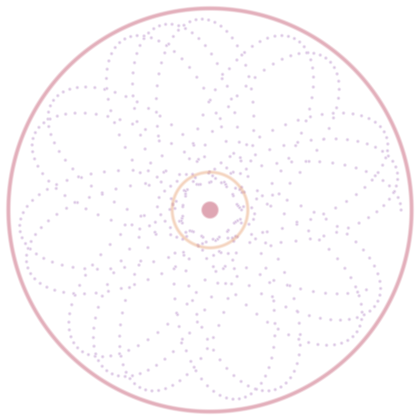
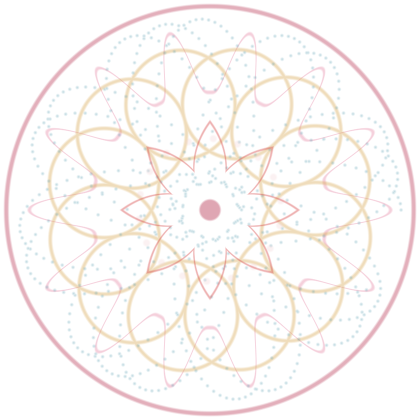
Give the Wine motif the colour it was missing
The control-center and media panels were showing a motif that read as a
flat mauve smudge. The wiring was never wrong -- mandala-gen check passes
and all 22 PNGs are byte-unique -- the drawing was.

Two causes. The design used three palette roles, two of them
near-neighbours on the colour wheel, so more opacity on one hue could
never have helped. And the Role enum only exposed 11 of the 15 accent
tokens every block declares: --red, --sapphire, --sky and --flamingo
were unreachable, and --red is the most saturated thing in the palette at
0.71 chroma against mauve's 0.38.

So Wine becomes "kalamkari bloom": six distinct roles over seven layers,
keeping the spirograph it had, now in sapphire. Measured on the art,
mean chroma 0.422 -> 0.528 and hue buckets 4 -> 8.

The alphas stay in the 0.40-0.50 band, and that is the point. The
control-center panel fills with --acrylic at 1% alpha, so the PNG's own
alpha is the only thing between the motif and the body text. Running the
layers to 0.55-0.60 did make it more vivid and pushed the top 1% of the
art to luminance 0.48, dropping body text to 1.6:1. Vibrancy is bought
here with hue variety, which costs no contrast: 99% of the motif stays
below luminance 0.23, which is where #F1DFE3 still clears 3:1.

mandala-gen had no unit tests at all, so nothing would have caught the
flat-hue design or an over-opaque one. Four now do, driven off the real
stylesheet so a 23rd theme cannot slip through: every design needs at
[…]

diff --git a/yasb/tools/theme/mandala-gen/src/main.rs b/yasb/tools/theme/mandala-gen/src/main.rs
@@ -41,11 +41,25 @@ const SS: usize = 2;
 /// which is exactly the regression this tool exists to prevent.
 const MIN_PATTERN_DISTANCE: u32 = 10;
 
+/// Ceiling on any single layer's alpha.
+///
+/// The control-center, media and pomodoro panels all paint this art *under*
+/// their text, and `.control-center-menu` sets `background-color: var(--acrylic)`
+/// — which the Rangalipi blocks declare at 1% alpha. So there is no panel fill
+/// to hide behind: the PNG's alpha is the only thing keeping the motif from
+/// sitting at full strength under the labels.
+///
+/// The floor is not arbitrary. Measured on the art, this keeps 99% of the
+/// motif's pixels below luminance 0.23, which is where `#F1DFE3` body text on
+/// the darkest theme still clears 3:1. Running the layers to 0.55-0.60 pushed
+/// the top 1% to 0.48 and body text to 1.6:1.
+const MAX_WATERMARK_ALPHA: f64 = 0.50;
+
 // ---------------------------------------------------------------------------
 // Palette roles: which styles.css token tints a layer
 // ---------------------------------------------------------------------------
 
-#[derive(Clone, Copy, PartialEq, Eq, Hash)]
+#[derive(Clone, Copy, PartialEq, Eq, Hash, Debug)]
 enum Role {
     Frame,
     Mauve,
@@ -58,6 +72,10 @@ enum Role {
     Pink,
     Maroon,
     Rosewater,
+    Red,
+    Sapphire,
+    Sky,
+    Flamingo,
 }
 
 impl Role {
@@ -74,10 +92,21 @@ impl Role {
             Role::Pink => "pink",
             Role::Maroon => "maroon",
             Role::Rosewater => "rosewater",
+            Role::Red => "red",
+            Role::Sapphire => "sapphire",
+            Role::Sky => "sky",
+            Role::Flamingo => "flamingo",
         }
     }
 
-    fn all() -> [Role; 11] {
+    /// Every accent token the 22 blocks all declare.
+    ///
+    /// The four added last (`red`, `sapphire`, `sky`, `flamingo`) are the
+    /// most saturated tokens in the palette — `--red` is 0.71 chroma against
+    /// mauve's 0.38 — and leaving them out of the vocabulary is what kept
+    /// every design looking washed out. A design can only be as colourful as
+    /// the colours it is allowed to reach for.
+    fn all() -> [Role; 15] {
         [
             Role::Frame,
             Role::Mauve,
@@ -90,6 +119,10 @@ impl Role {
             Role::Pink,
             Role::Maroon,
             Role::Rosewater,
+            Role::Red,
+            Role::Sapphire,
+            Role::Sky,
+            Role::Flamingo,
         ]
     }
 }
@@ -592,12 +625,38 @@ fn design_for(stem: &str) -> Result<(&'static str, Vec<Layer>), String> {
             ],
         ),
         "wine" => (
-            "spirograph weave",
+            // Six distinct roles across seven layers. The previous
+            // "spirograph weave" used three, two of which were near-neighbours
+            // on the wheel, which is why this motif read as a flat mauve
+            // smudge no matter how much alpha it was given: more opacity on
+            // one hue is not vibrancy, hue variety is.
+            //
+            // The alphas stay in the 0.40-0.50 band every other design uses,
+            // and that is deliberate. Running them higher does make the motif
+            // more visible, but the control-center panel paints it over a
+            // `--acrylic` that is 1% opaque, so the PNG's own alpha is the
+            // *only* thing keeping the art behind the text: at 0.55-0.60 the
+            // brightest stroke reached luminance 0.48 and body text dropped
+            // to 1.6:1 against it. The vibrancy here is bought with hue
+            // variety, which costs no contrast at all.
+            "kalamkari bloom",
             vec![
-                Spiro { big: 0.62, small: 0.23, off: 0.52, w: 0.006, role: Role::Mauve, alpha: 0.50 },
-                Ring { r: 0.96, w: 0.009, role: Role::Frame, alpha: 0.45 },
-                Ring { r: 0.18, w: 0.007, role: Role::Peach, alpha: 0.40 },
-                Disc { r: 0.04, role: Role::Frame, alpha: 0.50 },
+                Ring { r: 0.97, w: 0.010, role: Role::Frame, alpha: 0.45 },
+                Petal { n: 14, phase: 0.0, base: 0.56, amp: 0.30, k: 1.7, w: 0.008, role: Role::Pink, alpha: 0.44 },
+                Scallop { n: 12, phase: 0.25, ring: 0.52, rad: 0.26, w: 0.008, role: Role::Yellow, alpha: 0.40 },
+                // Keeps Wine's spirograph character from the design it replaces, so the
+                // motif still belongs to the theme it was drawn for — but in
+                // `--sapphire` at 0.38 rather than mauve at 0.50, which is
+                // where both the extra hue and the lower brightness come from.
+                Spiro { big: 0.62, small: 0.23, off: 0.52, w: 0.006, role: Role::Sapphire, alpha: 0.38 },
+                // `--rosewater` is the lightest token in the palette (luma
+                // 0.72), so at the usual 0.45 it alone set the motif's
+                // brightest pixel and dragged body text down to 2.6:1 over
+                // the top 1% of the art. Held back to 0.32 it keeps its hue
+                // in the palette mix without being the thing you notice.
+                Dots { ring: 0.34, n: 18, phase: 0.22, size: 0.016, role: Role::Rosewater, alpha: 0.32 },
+                Star { n: 8, inner: 0.20, outer: 0.42, w: 0.008, role: Role::Red, alpha: 0.44 },
+                Disc { r: 0.05, role: Role::Frame, alpha: 0.50 },
             ],
         ),
         "wine-light" => (
@@ -1149,5 +1208,149 @@ fn main() {
     if let Err(e) = result {
         eprintln!("error: {e}");
         std::process::exit(1);
+    }
+}
+
+#[cfg(test)]
+mod tests {
+    use super::*;
+    use std::collections::HashSet;
+
+    /// The stylesheet, located from the crate rather than the cwd.
+    ///
+    /// `cargo test --manifest-path` runs with the cwd set to the crate
+    /// directory, which is not where `find_styles` looks, so the tests would
+    /// otherwise fail for a reason that has nothing to do with what they
+    /// assert.
+    fn sheet() -> Stylesheet {
+        let manifest = PathBuf::from(env!("CARGO_MANIFEST_DIR"));
+        // mandala-gen -> theme -> tools -> yasb
+        let candidates = [
+            manifest.join("../../../styles.css"),
+            manifest.join("../../../../yasb/styles.css"),
+        ];
+        let found = candidates
+            .iter()
+            .find(|p| p.exists())
+            .unwrap_or_else(|| {
+                panic!(
+                    "styles.css not found; looked at {:?}",
+                    candidates.iter().map(|p| p.display().to_string()).collect::<Vec<_>>()
+                )
+            });
+        let css = read_styles(found).expect("styles.css should be readable");
+        parse(&css).expect("styles.css should parse")
+    }
+
+    /// Every theme the shipped stylesheet declares must have a design, and
+    /// every layer in it must respect the watermark contract.
+    ///
+    /// Read from the real stylesheet rather than a hardcoded stem list, so a
+    /// 23rd theme fails here until it gets its own design — which is the
+    /// point. `generate` would otherwise draw it from whatever `design_for`
+    /// happened to fall through to.
+    fn every_theme() -> Vec<(String, String, Vec<Layer>)> {
+        sheet()
+            .regions
+            .iter()
+            .map(|r| {
+                let stem = stem_of(&r.name);
+                let (_label, layers) =
+                    design_for(&stem).unwrap_or_else(|e| panic!("{}: {e}", r.name));
+                (r.name.clone(), stem, layers)
+            })
+            .collect()
+    }
+
+    /// The control-center panel paints this art over a `--acrylic` that is 1%
+    /// opaque, so the PNG's own alpha is the only thing between the motif and
+    /// the body text. Nothing here may exceed `MAX_WATERMARK_ALPHA`, or the
+    /// brightest stroke lands under the text at a contrast no theme can
+    /// recover.
+    #[test]
+    fn no_layer_is_opaque_enough_to_fight_the_text() {
+        for (name, _stem, layers) in every_theme() {
+            for (i, l) in layers.iter().enumerate() {
+                let (alpha, role) = layer_alpha(l);
+                assert!(
+                    alpha > 0.0 && alpha <= MAX_WATERMARK_ALPHA,
+                    "{name}: layer {i} has alpha {alpha}, outside (0, {MAX_WATERMARK_ALPHA}]"
+                );
+                assert!(
+                    role != Role::Frame || alpha <= 0.52,
+                    "{name}: layer {i} puts the accent colour at alpha {alpha}"
+                );
+            }
+        }
+    }
+
+    /// Vibrancy comes from hue variety, not opacity. Wine's old
+    /// "spirograph weave" used three roles, two of them near-neighbours on the
+    /// wheel, and read as a flat mauve smudge no matter how much alpha it was
+    /// given. Two roles is the floor at which a design stops being able to
+    /// show more than one colour.
+    #[test]
+    fn every_design_uses_enough_distinct_colours_to_look_vibrant() {
+        for (name, _stem, layers) in every_theme() {
+            let roles: HashSet<Role> = layers.iter().map(layer_role).collect();
+            assert!(
+                roles.len() >= 3,
+                "{name}: only {} distinct colours ({:?}) — it will read as one flat hue",
+                roles.len(),
+                roles
+            );
+        }
+    }
+
+    /// A design with one layer is not a mandala, and an empty one is a bug
+    /// that renders as a blank square.
+    #[test]
+    fn every_design_has_layers() {
+        for (name, _stem, layers) in every_theme() {
+            assert!(!layers.is_empty(), "{name} has no layers");
+        }
+    }
+
+    /// The palette lookup must not silently fall back for the tokens every
+    /// block declares. A missing role is how a design ends up recoloured to
+    /// the accent.
+    #[test]
+    fn every_role_maps_to_a_token_the_stylesheet_declares() {
+        let sheet = sheet();
+        for region in &sheet.regions {
+            let vars = sheet.theme_vars(&region.name);
+            for role in Role::all() {
+                let key = role.key().to_string();
+                assert!(
+                    vars.contains_key(&key),
+                    "{}: role {} has no `{key}` token",
+                    region.name,
+                    role.key()
+                );
+            }
+        }
+    }
+
+    fn layer_alpha(l: &Layer) -> (f64, Role) {
+        use Layer::*;
+        match *l {
+            Disc { alpha, role, .. }
+            | Ring { alpha, role, .. }
+            | Dots { alpha, role, .. }
+            | Wave { alpha, role, .. }
+            | Petal { alpha, role, .. }
+            | Ray { alpha, role, .. }
+            | Scallop { alpha, role, .. }
+            | Diamond { alpha, role, .. }
+            | Chevron { alpha, role, .. }
+            | Star { alpha, role, .. }
+            | Pinwheel { alpha, role, .. }
+            | Spiro { alpha, role, .. }
+            | Tri { alpha, role, .. } => (alpha, role),
+        }
+    }
+
+    fn layer_role(l: &Layer) -> Role {
+        layer_alpha(l).1
     }
 }
